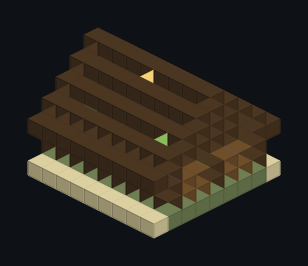
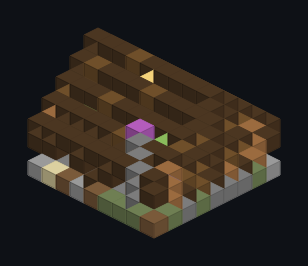
feat(world): boarded gables, rafter ends, chimney and patched thatch for the tavern hut (st4b)

diff --git a/art/structures/pirate_island/tavern_hut.py b/art/structures/pirate_island/tavern_hut.py
@@ -3,65 +3,102 @@ dark oak) and prints the BuildSpec as JSON. The doorway and the hut connector ar
 the sand in front, under the roof's front eave.
 
 Inside: a bar of barrels and a plank counter across the back with kegs and rum (cargo barrels) behind it, two tables
-with stools, lanterns on the counter and hanging from the ridge, cobwebs in the corners."""
-from _style import PALETTE, THATCH, stool, table, torch_post
+with stools, lanterns on the counter and hanging from the ridge, cobwebs in the corners.
+
+ST4b: palm trunk corner posts and stripped door posts, a plinth of cobblestone going mossy at the corners, a board
+course of alternating dark and spruce boards (with a salvaged jungle board or two) under the open rail, the gables on
+a stripped dark oak tie beam with vertical boards, a king post and vents, rafter ends under both eaves, a lantern
+over the doorway, a shuttered window in the closed back wall, a fieldstone chimney with a smoking top at the back,
+and gravel and coarse dirt at the hut's foot."""
+from _style import (PALETTE, THATCH, chimney, rafter_ends, roof_patches, sand_skirt, shutter_window, stool, table,
+                    weatherboard, lantern_post)
 from buildspec import Piece
 
 X0, X1, Z0, Z1 = 0, 8, 1, 7     # walls
 TOP = 2                         # last wall row; the roof plate is row 3
+MID = 4                         # the middle of the side walls (z) and of the front (x)
 
 p = Piece("pirate_island_tavern_hut", "Pirate Tavern Hut", (X1 + 1, 8, Z1 + 2), PALETTE)
 
-# foundation: a mossy cobblestone plinth under the walls, a patched plank floor
+# foundation: a cobblestone plinth under the walls, mossy at the corners and here and there, a patched plank floor
 p.fill(X0, 0, 0, X1, 0, Z1 + 1, "sand")
-p.ring(X0, Z0, X1, Z1, 0, 0, "mossy")
-for x in range(X0 + 1, X1):
-    p.put(x, 0, Z0, "cobble" if x % 3 else "mossy")
+p.ring(X0, Z0, X1, Z1, 0, 0, "cobble")
+for x, z in ((X0, Z0), (X1, Z0), (X0, Z1), (X1, Z1), (2, Z0), (6, Z1), (X0, 3), (X1, 5), (4, Z1)):
+    p.put(x, 0, z, "mossy")
 p.fill(X0 + 1, 0, Z0 + 1, X1 - 1, 0, Z1 - 1, "spruce")
 for x, z in ((2, 2), (5, 3), (6, 6), (3, 5), (7, 2)):
     p.put(x, 0, z, "dark")
+p.put(4, 0, 2, "minecraft:jungle_planks")
+sand_skirt(p, X0, Z0, X1, Z1, reach=1, salt=21)
 
-# walls: a plank course at the bottom, an open rail above (an open-sided hut), stripped log posts
+# walls: a board course at the bottom, an open rail above (an open-sided hut), palm trunk corners, stripped posts
 p.ring(X0, Z0, X1, Z1, 1, 1, "spruce")
 p.ring(X0, Z0, X1, Z1, 2, 2, "fence")
 p.fill(X0 + 1, 1, Z1, X1 - 1, 2, Z1, "dark")              # the back wall is closed behind the bar
-for x, z in ((X0, Z0), (X1, Z0), (X0, Z1), (X1, Z1), (X0, 4), (X1, 4), (3, Z0), (5, Z0)):
+weatherboard(p, X0, 1, Z0, X1, 1, Z0, salt=1)
+weatherboard(p, X0, 1, Z1, X1, 2, Z1, keys=("spruce", "dark"), salt=2)
+weatherboard(p, X0, 1, Z0, X0, 1, Z1, salt=3)
+weatherboard(p, X1, 1, Z0, X1, 1, Z1, salt=4)
+for x, z in ((X0, Z0), (X1, Z0), (X0, Z1), (X1, Z1)):
+    p.fill(x, 1, z, x, TOP, z, "palm")
+for x, z in ((X0, MID), (X1, MID), (3, Z0), (5, Z0)):
     p.fill(x, 1, z, x, TOP, z, "post")
 # the doorway between the two front posts
 for y in (1, 2):
-    p.clear(4, y, Z0)
+    p.clear(MID, y, Z0)
 
-# roof: ridge along x, eaves over the sand in front (z 0) and the back (z 8), dark oak gables
+# roof: ridge along x, eaves over the sand in front (z 0) and the back (z 8)
 p.roof_ridge_x(X0, X1, Z0, Z1, TOP + 1, THATCH, "thatch_ridge", "dark", plate="beam_x")
+roof_patches(p, salt=31)
 for z in (Z0, Z1):
-    p.put(X0, TOP + 1, z, "post")
-    p.put(X1, TOP + 1, z, "post")
+    p.put(X0, TOP + 1, z, "palm")
+    p.put(X1, TOP + 1, z, "palm")
+# the gables: a tie beam along the top of the side wall, vertical boards above with a king post and two vents
+for x in (X0, X1):
+    p.fill(x, TOP + 1, Z0 + 1, x, TOP + 1, Z1 - 1, "dark_beam_z")
+    weatherboard(p, x, TOP + 2, Z0, x, TOP + 4, Z1, keys=("spruce", "dark"), salt=5 + x)
+    p.fill(x, TOP + 2, MID, x, TOP + 4, MID, "dark_post")
+    p.put(x, TOP + 2, MID - 1, "fence")
+    p.put(x, TOP + 2, MID + 1, "fence")
+# rafter ends under both eaves (the back ones beside the window's shutters)
+rafter_ends(p, [(0, 0), (3, 0), (5, 0), (8, 0)], TOP, "south")
+rafter_ends(p, [(0, Z1 + 1), (1, Z1 + 1), (8, Z1 + 1)], TOP, "north")
+
+# the back: a shuttered window behind the bar, a fieldstone chimney with its breast in the wall behind the kegs
+shutter_window(p, MID, 2, Z1, "south", wood="dark_oak")
+chimney(p, 7, Z1 + 1, 0, 5)
+p.put(7, 1, Z1, "mossy")
+p.put(7, 2, Z1, "cobble")
 
 # the bar: barrels at the ends, a plank counter between, a gap at the west end to step behind
 p.put(3, 1, 4, "barrel")
-p.fill(4, 1, 4, 6, 1, 4, "minecraft:spruce_slab[type=top,waterlogged=false]")
+p.fill(4, 1, 4, 6, 1, 4, "minecraft:spruce_slab[type=top]")
 p.put(7, 1, 4, "barrel")
 p.put(5, 2, 4, "lantern")
+p.put(6, 2, 4, "minecraft:skeleton_skull[powered=false,rotation=8]")
 for x, y in ((1, 1), (2, 1), (1, 2)):
     p.put(x, y, 6, "pirates_n_ships:cargo_barrel")
 for x in (4, 5, 6, 7):
     p.put(x, 1, 6, "minecraft:barrel[facing=north,open=false]")
 p.put(7, 2, 6, "minecraft:barrel[facing=north,open=false]")
+p.put(5, 2, 6, "minecraft:barrel[facing=east,open=false]")
 
-# two tables with stools, a hanging lantern from the ridge
+# two tables with stools, a hanging lantern from the ridge, one over the doorway
 for tx in (2, 6):
     table(p, tx, 1, 2)
     stool(p, tx - 1, 1, 2, "west")
     stool(p, tx + 1, 1, 2, "east")
 p.put(4, 6, 4, "lantern_hanging")
+p.put(MID, TOP, 0, "lantern_hanging")
 p.put(1, 3, 6, "cobweb")
 p.put(7, 4, 6, "cobweb")
 
-torch_post(p, 2, 1, 0)
-torch_post(p, 6, 1, 0)
+lantern_post(p, 1, 1, 0)
+p.put(7, 1, 0, "barrel")
+p.put(7, 2, 0, "minecraft:barrel[facing=west,open=false]")
 
-p.connector(4, 0, 0, "hut_in", "north", "minecraft:sand")
+p.connector(MID, 0, 0, "hut_in", "north", "minecraft:sand")
 
-p.emit("open-sided beach tavern: bar of barrels, tables, lanterns, dark oak thatch roof",
+p.emit("open-sided beach tavern: bar of barrels, tables, lanterns, dark oak thatch roof, boarded gables, chimney",
        ["Faces north: the doorway and the hut_in connector are on the -z side.",
         "y 0 is the foundation row, level with the terrain surface."])
